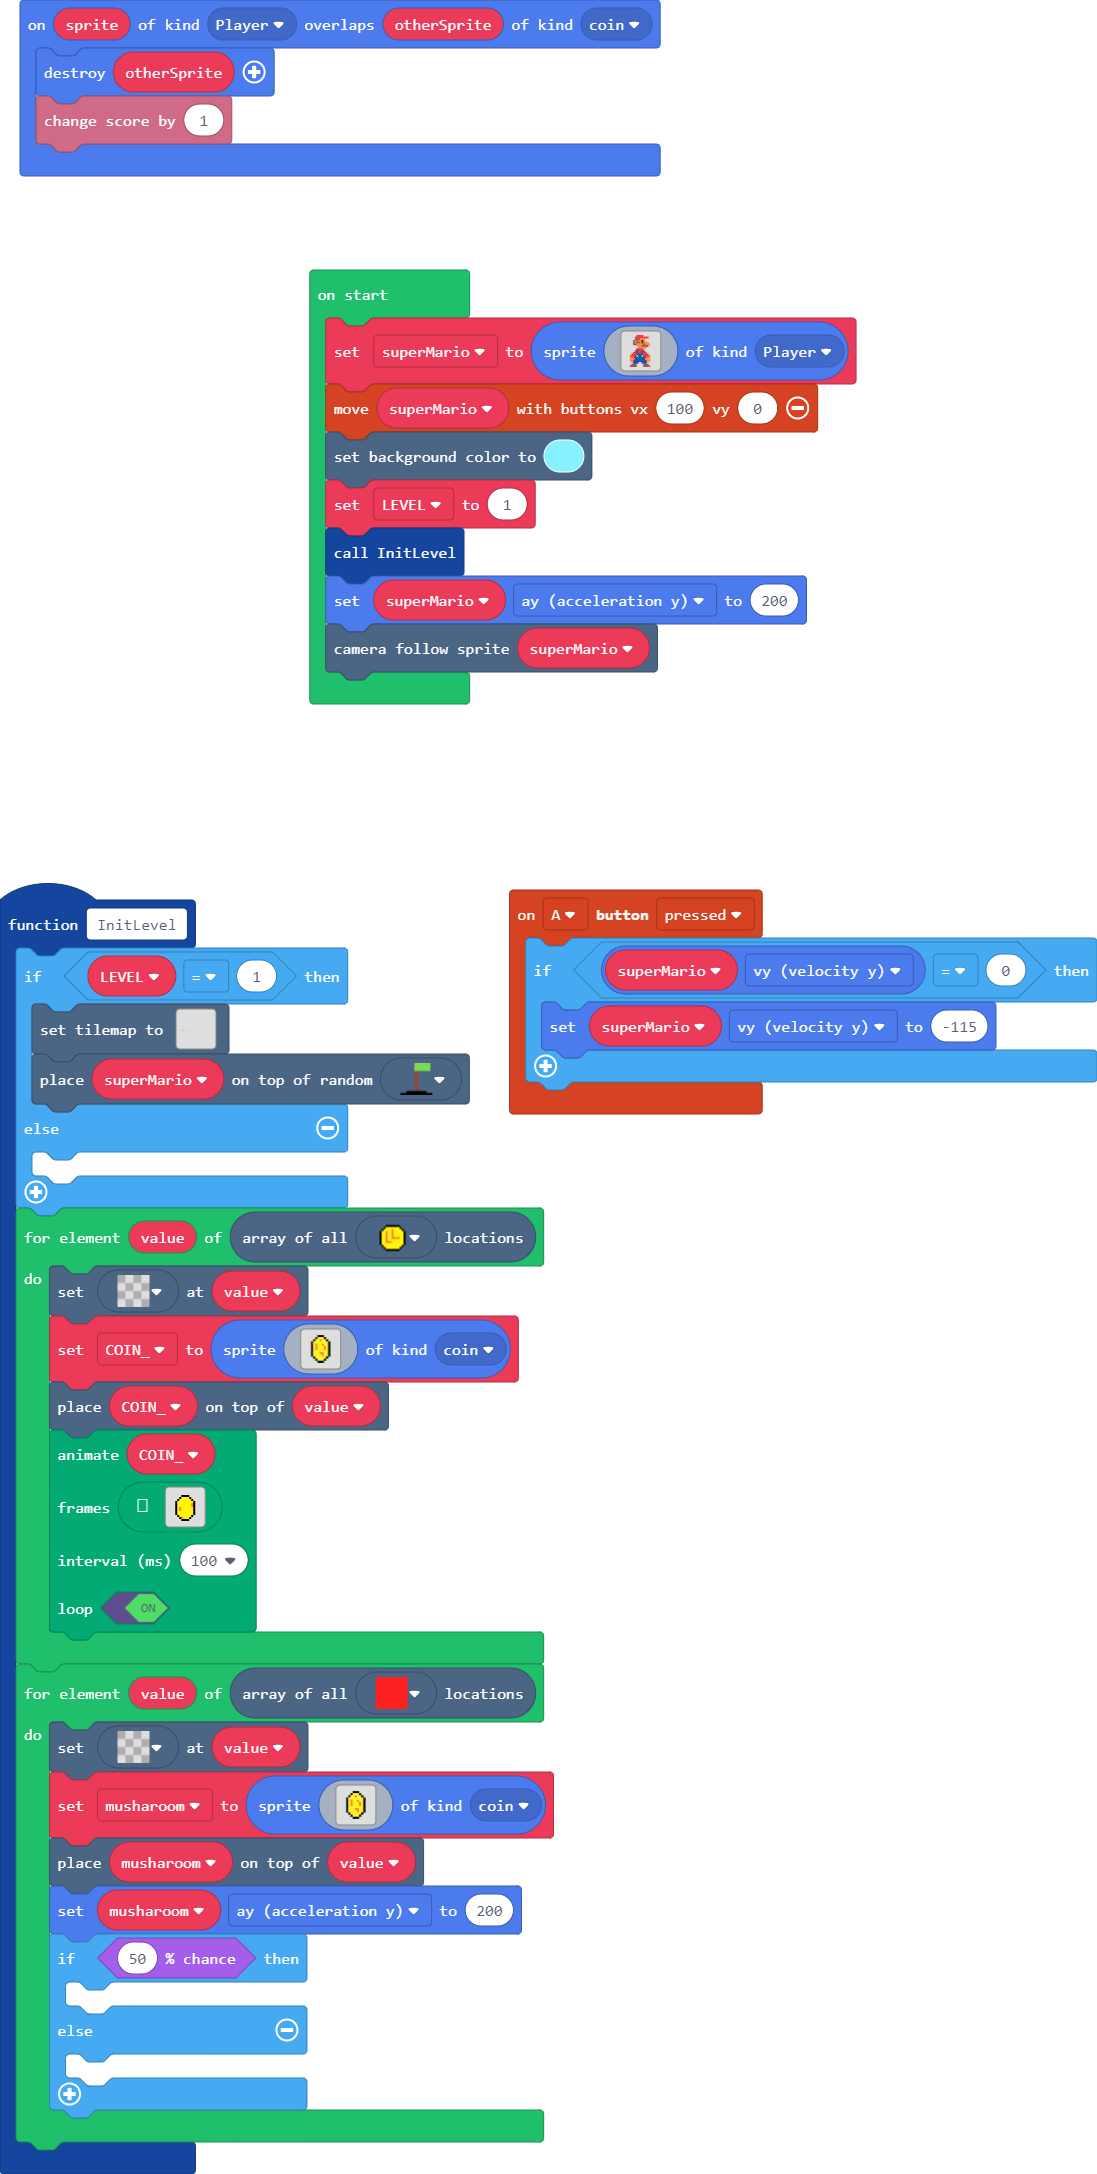
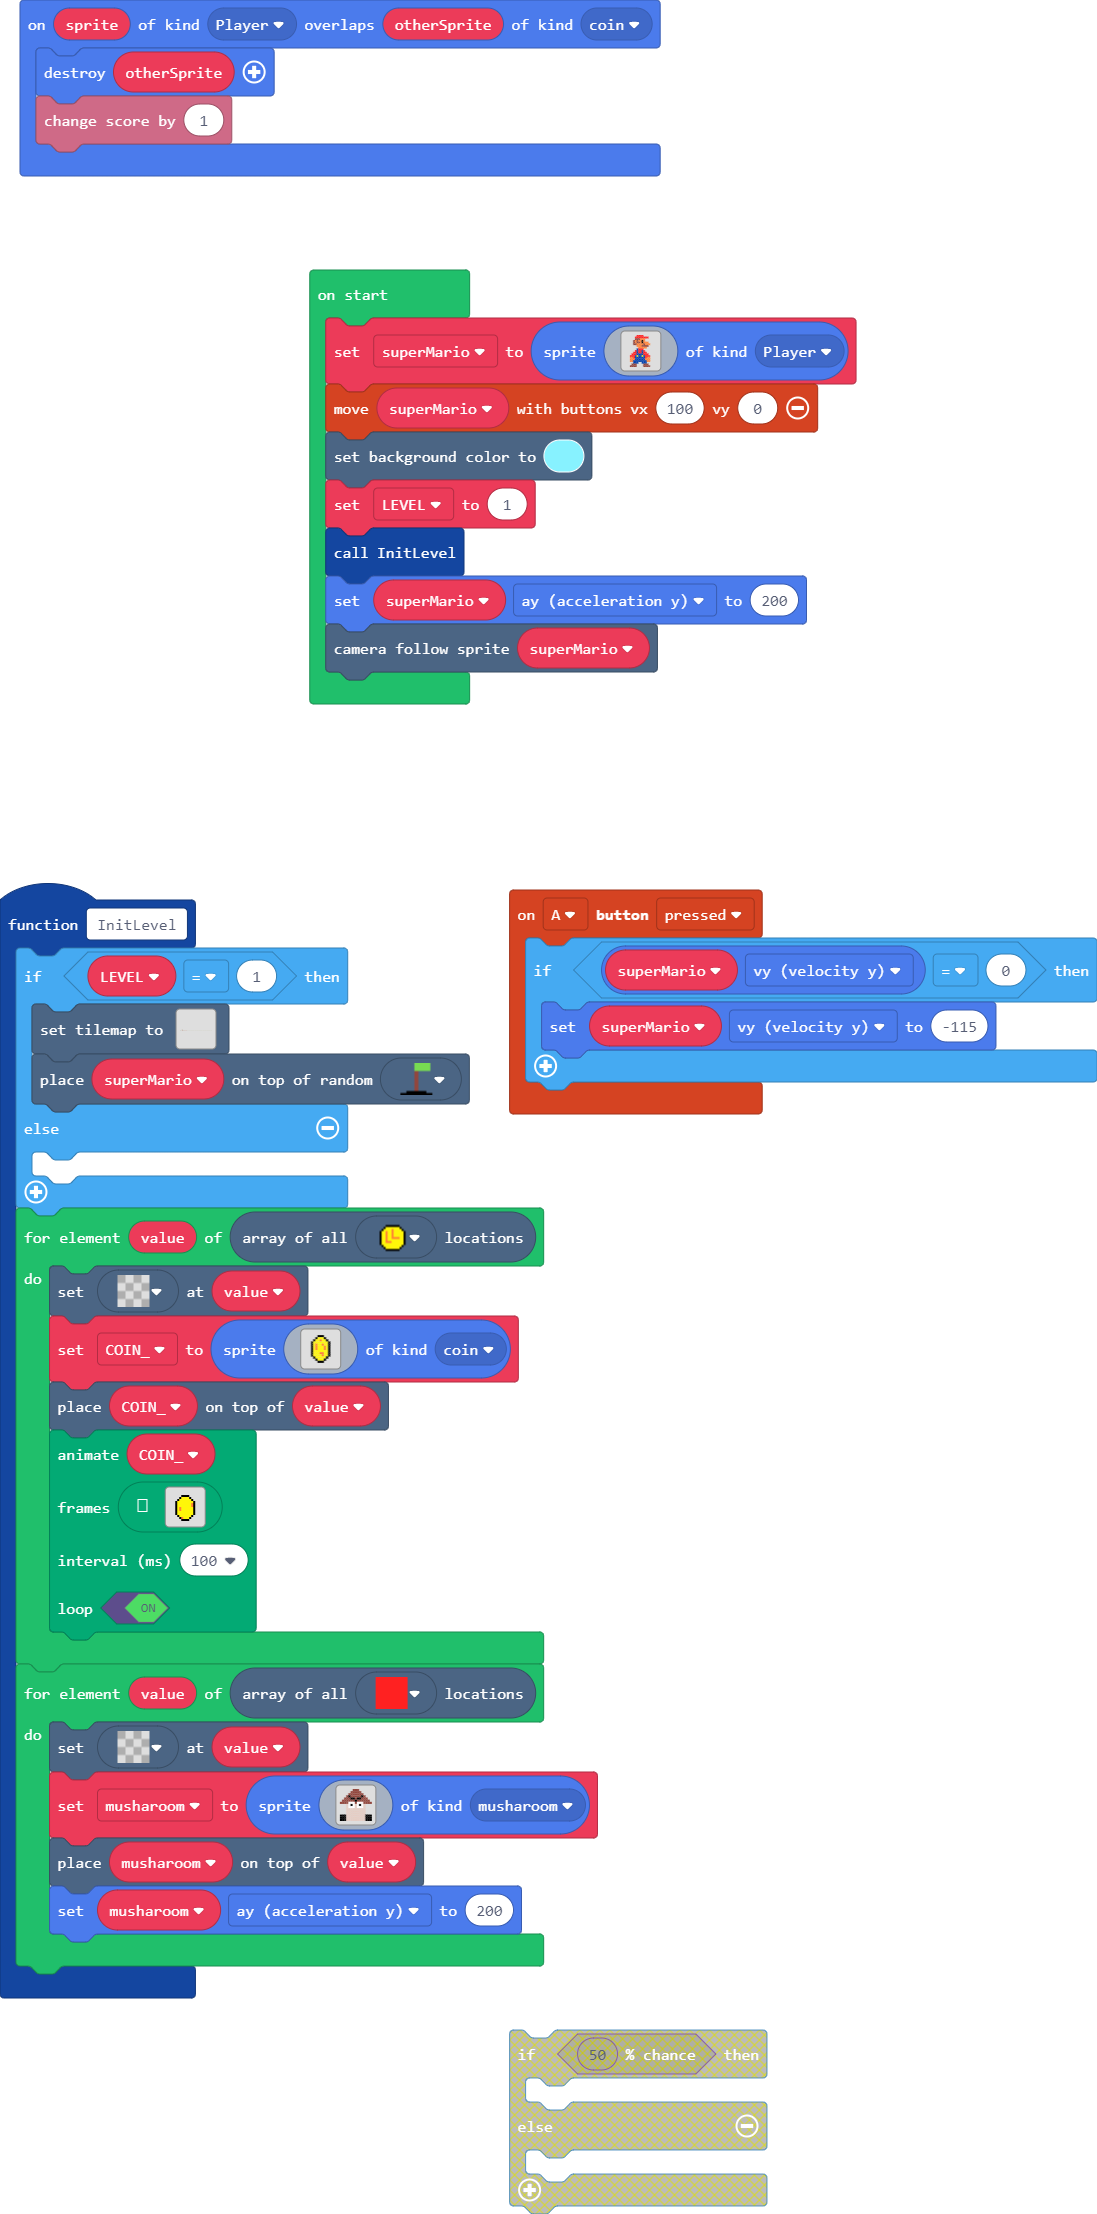
Update main.blocks, main.ts

diff --git a/main.ts b/main.ts
@@ -1,5 +1,6 @@
 namespace SpriteKind {
     export const coin = SpriteKind.create()
+    export const musharoom = SpriteKind.create()
 }
 namespace myTiles {
     //% blockIdentity=images._tile
@@ -309,29 +310,24 @@ function InitLevel () {
     for (let value of tiles.getTilesByType(myTiles.tile4)) {
         tiles.setTileAt(value, myTiles.tile0)
         musharoom = sprites.create(img`
-. . . . . . . . . . . . . . . 
-. . . . . . f f f . . . . . . 
-. . . . . f 5 5 5 f . . . . . 
-. . . . f 5 5 4 5 5 f . . . . 
-. . . f 5 5 5 5 5 5 5 f . . . 
-. . . f 5 4 5 5 4 5 5 f . . . 
-. . . f 5 4 5 5 5 4 5 f . . . 
-. . . f 5 4 5 5 5 4 5 f . . . 
-. . . f 5 5 5 5 5 5 5 f . . . 
-. . . f 5 5 5 4 4 5 5 f . . . 
-. . . f 5 5 5 5 4 5 5 f . . . 
-. . . . f 5 5 5 5 5 f . . . . 
-. . . . . f 5 5 5 f . . . . . 
-. . . . . . f f f . . . . . . 
-. . . . . . . . . . . . . . . 
-`, SpriteKind.coin)
+. . . . . . e e e . . . . . . 
+. . . . . e e e e e . . . . . 
+. . . . e e e e e e e . . . . 
+. . . e f e e e e e f e . . . 
+. . e e e f f e f f e e e . . 
+. e e e e e e f e e e e e e . 
+e e e e 1 1 1 e 1 1 1 e e e e 
+. . . d 1 f 1 d 1 f 1 d . . . 
+. . . d 1 1 1 d 1 1 1 d . . . 
+. . . d d d d d d d d d . . . 
+. . . d d d d d d d d d . . . 
+. . . d d d d d d d d d . . . 
+f f f d d d d d d d d d f f f 
+f f f d d d d d d d d d f f f 
+f f f d d d d d d d d d f f f 
+`, SpriteKind.musharoom)
         tiles.placeOnTile(musharoom, value)
         musharoom.ay = 200
-        if (Math.percentChance(50)) {
-        	
-        } else {
-        	
-        }
     }
 }
 let musharoom: Sprite = null
